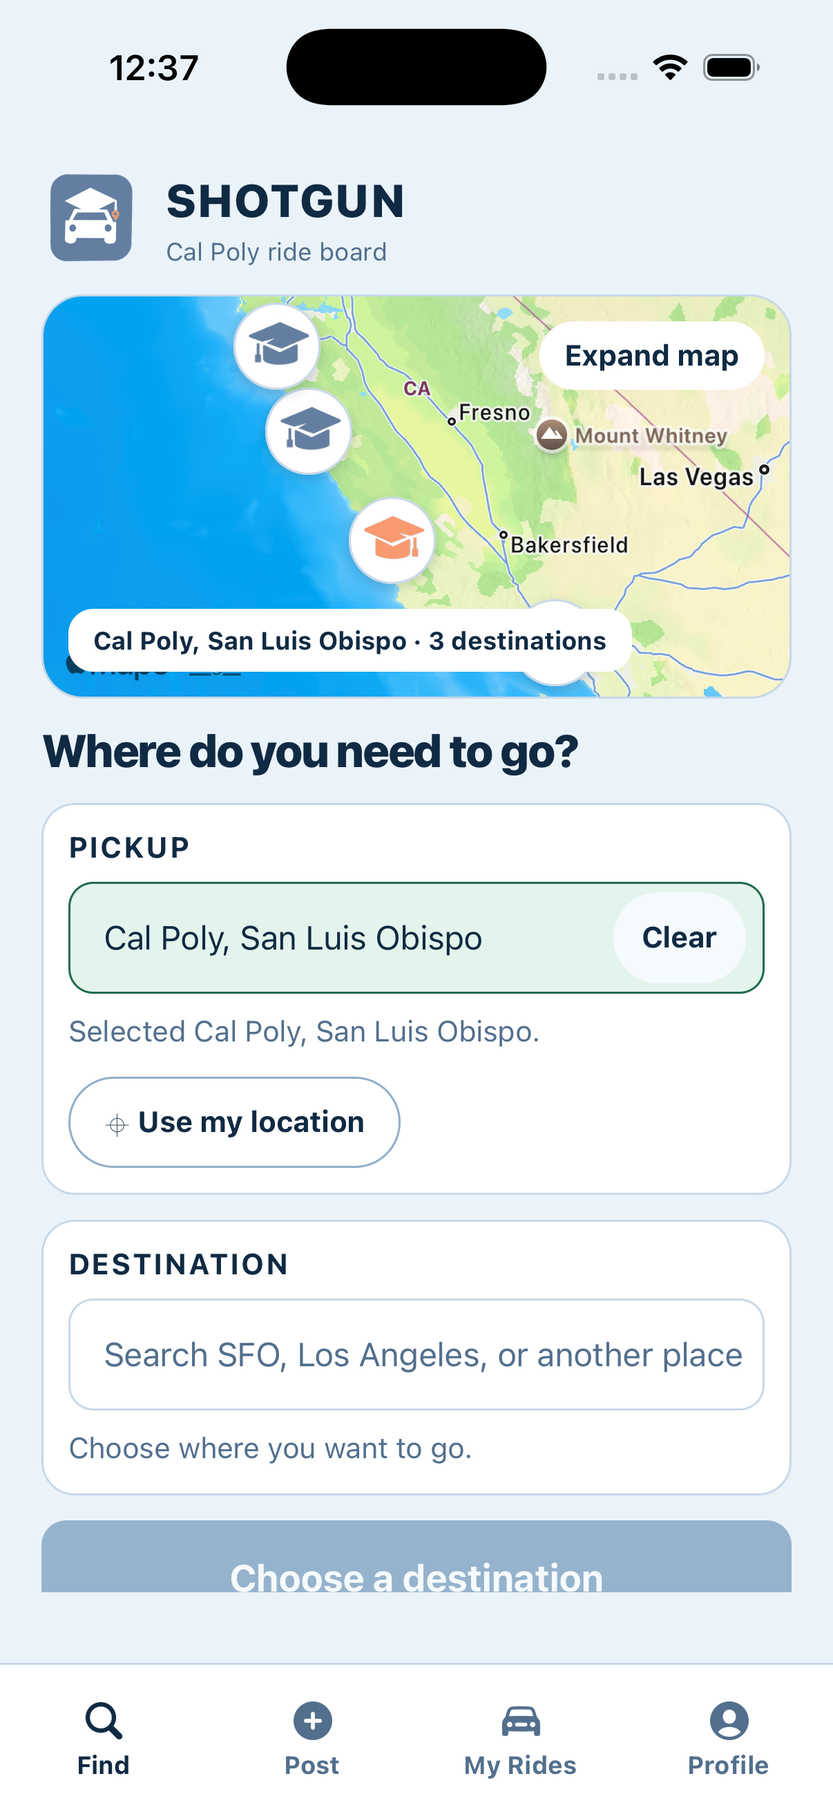
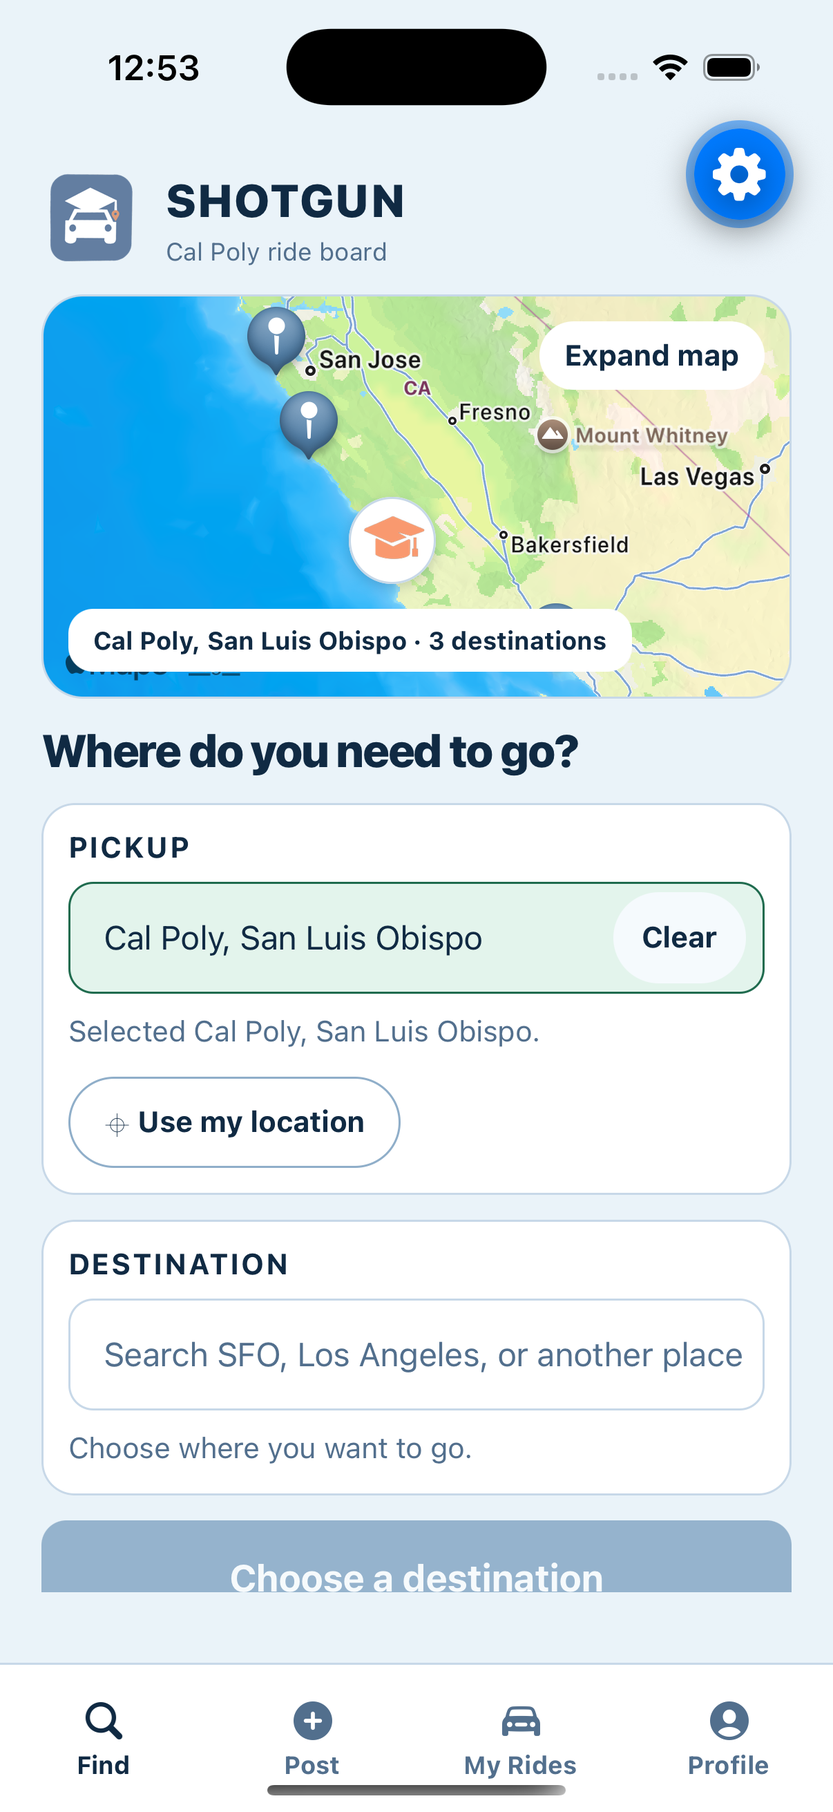
Enable live place search and route previews

diff --git a/src/screens/RideDetailsScreen.tsx b/src/screens/RideDetailsScreen.tsx
@@ -1,11 +1,16 @@
-import { useState } from "react";
+import { useMemo, useState } from "react";
 import { ActivityIndicator, Pressable, ScrollView, StyleSheet, Text, View } from "react-native";
 import { useLocalSearchParams, useRouter } from "expo-router";
 import { SafeAreaView } from "react-native-safe-area-context";
 
 import { BookingStatusPill } from "../components/BookingStatusPill";
 import { currentUser, rides } from "../data/fixtures";
+import { RideRouteMap } from "../features/rides/components/RideRouteMap";
+import { fixtureRideSeeds } from "../features/rides/fixtures";
+import { createMockMapsService } from "../features/rides/mockMapsService";
+import { createSupabaseMapsService } from "../features/rides/supabaseMapsService";
 import { useBookings } from "../hooks/useBookings";
+import { withRouteFallback } from "../lib/maps";
 import { mockBookingService } from "../services/mockBookingService";
 import { colors, componentTokens, radii, semanticColors, spacing, typography } from "../theme/tokens";
 
@@ -18,6 +23,9 @@ export function RideDetailsScreen() {
   const params = useLocalSearchParams<{ rideId?: string | string[] }>();
   const rideId = Array.isArray(params.rideId) ? params.rideId[0] : params.rideId;
   const ride = rides.find((item) => item.id === rideId);
+  const routeRide = fixtureRideSeeds.find((item) => item.id === rideId);
+  const routePlaces = useMemo(() => routeRide ? [routeRide.origin, ...routeRide.stops, routeRide.destination] : [], [routeRide]);
+  const mapsService = useMemo(() => withRouteFallback(createSupabaseMapsService(), createMockMapsService({ delayMs: 120 })), []);
   const { riderBookings } = useBookings();
   const booking = ride ? riderBookings.find((item) => item.rideId === ride.id) : undefined;
   const [saving, setSaving] = useState(false);
@@ -69,16 +77,14 @@ export function RideDetailsScreen() {
           <Text style={styles.time}>{ride.departureTime}</Text>
         </View>
 
+        {routePlaces.length >= 2 ? <RideRouteMap places={routePlaces} service={mapsService} /> : null}
+
         <View style={styles.routeCard}>
-          <View style={styles.routeRail}>
-            <View style={styles.originDot} />
-            <View style={styles.routeLine} />
-            <View style={styles.destinationDot} />
-          </View>
-          <View style={styles.routeLabels}>
-            <Text style={styles.place}>{ride.origin}</Text>
-            <Text style={styles.place}>{ride.destination}</Text>
-          </View>
+          {routePlaces.map((place, index) => {
+            const isOrigin = index === 0;
+            const isDestination = index === routePlaces.length - 1;
+            return <View key={place.id} style={styles.routeRow}><View style={[styles.routeDot, isOrigin && styles.originDot, isDestination && styles.destinationDot]} /><View style={styles.routeCopy}><Text style={styles.routeKind}>{isOrigin ? "ORIGIN" : isDestination ? "DESTINATION" : "SUGGESTED STOP"}</Text><Text style={styles.place}>{place.label}</Text></View></View>;
+          })}
         </View>
 
         <View style={styles.card}>
@@ -146,12 +152,13 @@ const styles = StyleSheet.create({
   kicker: { color: colors.steel, fontSize: typography.fontSize.xs, fontWeight: typography.fontWeight.bold, letterSpacing: typography.letterSpacing.label },
   time: { color: colors.ink, fontSize: typography.fontSize["2xl"], fontWeight: typography.fontWeight.heavy, marginTop: spacing[1] },
   title: { color: colors.ink, fontSize: typography.fontSize["2xl"], fontWeight: typography.fontWeight.heavy },
-  routeCard: { backgroundColor: semanticColors.app.surface, borderColor: colors.border, borderRadius: componentTokens.card.radius, borderWidth: 1, flexDirection: "row", gap: spacing[4], padding: componentTokens.card.padding },
-  routeRail: { alignItems: "center", paddingVertical: spacing[1], width: 14 },
-  originDot: { backgroundColor: colors.steel, borderRadius: radii.pill, height: 12, width: 12 },
-  routeLine: { backgroundColor: colors.borderStrong, flex: 1, minHeight: 40, width: 2 },
-  destinationDot: { backgroundColor: colors.peach, borderRadius: radii.pill, height: 12, width: 12 },
-  routeLabels: { flex: 1, justifyContent: "space-between", minHeight: 72 },
+  routeCard: { backgroundColor: semanticColors.app.surface, borderColor: colors.border, borderRadius: componentTokens.card.radius, borderWidth: 1, gap: spacing[3], padding: componentTokens.card.padding },
+  routeRow: { alignItems: "center", flexDirection: "row", gap: spacing[3] },
+  routeDot: { backgroundColor: colors.steel, borderRadius: radii.pill, height: 8, width: 8 },
+  originDot: { backgroundColor: colors.peach, height: 12, width: 12 },
+  destinationDot: { backgroundColor: colors.navy, height: 12, width: 12 },
+  routeCopy: { flex: 1, gap: spacing[1] },
+  routeKind: { color: colors.textMuted, fontSize: typography.fontSize.xs, fontWeight: typography.fontWeight.bold, letterSpacing: typography.letterSpacing.label },
   place: { color: colors.ink, fontSize: typography.fontSize.lg, fontWeight: typography.fontWeight.bold },
   card: { backgroundColor: semanticColors.app.surface, borderColor: colors.border, borderRadius: componentTokens.card.radius, borderWidth: 1, gap: spacing[3], padding: componentTokens.card.padding },
   section: { color: colors.ink, fontSize: typography.fontSize.lg, fontWeight: typography.fontWeight.heavy },

diff --git a/src/features/rides/components/RideRouteMap.tsx b/src/features/rides/components/RideRouteMap.tsx
@@ -1,0 +1,58 @@
+import { useEffect, useMemo, useState } from "react";
+import { ActivityIndicator, Image, StyleSheet, Text, View } from "react-native";
+import MapView, { Marker, Polyline } from "react-native-maps";
+
+import type { MapsService } from "../../../lib/maps";
+import { colors, radii, semanticColors, spacing, typography } from "../../../theme/tokens";
+import { regionForPlaces } from "../mapPresentation";
+import type { Place } from "../types";
+
+type Props = { places: Place[]; service: MapsService };
+
+export function RideRouteMap({ places, service }: Props) {
+  const [path, setPath] = useState<Array<{ lat: number; lng: number }>>([]);
+  const [status, setStatus] = useState<"loading" | "ready" | "error">("loading");
+  const waypointKey = places.map((place) => place.id).join(":");
+
+  useEffect(() => {
+    let active = true;
+    setStatus("loading");
+    service.getRoute(places).then((route) => {
+      if (!active) return;
+      setPath(route.path?.length ? route.path : places.map(({ lat, lng }) => ({ lat, lng })));
+      setStatus("ready");
+    }).catch(() => {
+      if (!active) return;
+      setPath(places.map(({ lat, lng }) => ({ lat, lng })));
+      setStatus("error");
+    });
+    return () => { active = false; };
+  }, [places, service, waypointKey]);
+
+  const region = useMemo(() => regionForPlaces(places), [places]);
+  const coordinates = path.map(({ lat, lng }) => ({ latitude: lat, longitude: lng }));
+
+  return (
+    <View accessibilityLabel={`Route map from ${places[0].label} to ${places.at(-1)?.label}`} style={styles.container}>
+      <MapView initialRegion={region} pointerEvents="none" style={StyleSheet.absoluteFill}>
+        {coordinates.length > 1 ? <Polyline coordinates={coordinates} strokeColor={colors.steel} strokeWidth={5} /> : null}
+        <Marker coordinate={{ latitude: places[0].lat, longitude: places[0].lng }} title={places[0].label} tracksViewChanges={false}>
+          <View style={styles.originBadge}><Image source={require("../../../../Images/GradCapOrange.png")} style={styles.originImage} /></View>
+        </Marker>
+        {places.slice(1, -1).map((stop) => <Marker key={stop.id} coordinate={{ latitude: stop.lat, longitude: stop.lng }} description="Suggested stop" pinColor={colors.peach} title={stop.label} />)}
+        <Marker coordinate={{ latitude: places.at(-1)!.lat, longitude: places.at(-1)!.lng }} description="Ride destination" pinColor={colors.steel} title={places.at(-1)!.label} />
+      </MapView>
+      {status === "loading" ? <View style={styles.status}><ActivityIndicator color={colors.steel} /><Text style={styles.statusText}>Loading route…</Text></View> : null}
+      {status === "error" ? <Text accessibilityRole="alert" style={styles.fallback}>Approximate route</Text> : null}
+    </View>
+  );
+}
+
+const styles = StyleSheet.create({
+  container: { backgroundColor: colors.ice, borderColor: semanticColors.app.border, borderRadius: radii.lg, borderWidth: 1, height: 190, overflow: "hidden" },
+  originBadge: { alignItems: "center", backgroundColor: colors.white, borderColor: semanticColors.app.border, borderRadius: radii.pill, borderWidth: 1, height: 38, justifyContent: "center", width: 38 },
+  originImage: { height: 32, width: 32 },
+  status: { alignItems: "center", alignSelf: "center", backgroundColor: semanticColors.app.surface, borderRadius: radii.pill, flexDirection: "row", gap: spacing[2], marginTop: spacing[3], paddingHorizontal: spacing[3], paddingVertical: spacing[2] },
+  statusText: { color: semanticColors.text.primary, fontSize: typography.fontSize.xs, fontWeight: typography.fontWeight.bold },
+  fallback: { alignSelf: "flex-end", backgroundColor: semanticColors.app.surface, borderRadius: radii.pill, color: semanticColors.text.muted, fontSize: typography.fontSize.xs, margin: spacing[3], overflow: "hidden", paddingHorizontal: spacing[3], paddingVertical: spacing[2] },
+});

diff --git a/supabase/functions/geoapify-maps/index.ts b/supabase/functions/geoapify-maps/index.ts
@@ -26,12 +26,13 @@ function isPlaceInput(value: unknown): value is PlaceInput {
   return isRecord(value) && isCoordinate(value.lat, -90, 90) && isCoordinate(value.lng, -180, 180);
 }
 
-function isAuthenticated(request: Request) {
+function hasMapsAccess(request: Request) {
   const token = request.headers.get("Authorization")?.replace(/^Bearer\s+/i, "");
   if (!token) return false;
   try {
-    const payload = JSON.parse(atob(token.split(".")[1] ?? "")) as unknown;
-    return isRecord(payload) && payload.role === "authenticated" && typeof payload.sub === "string";
+    const encodedPayload = token.split(".")[1]?.replace(/-/g, "+").replace(/_/g, "/") ?? "";
+    const payload = JSON.parse(atob(encodedPayload)) as unknown;
+    return isRecord(payload) && (payload.role === "anon" || payload.role === "authenticated");
   } catch {
     return false;
   }
@@ -81,21 +82,34 @@ async function getRoute(stops: PlaceInput[], apiKey: string) {
     waypoints: stops.map((stop) => `${stop.lat},${stop.lng}`).join("|"),
     mode: "drive",
     units: "metric",
-    format: "json",
+    format: "geojson",
     apiKey,
   }).toString();
   const payload = await fetchGeoapify(url);
-  const route = isRecord(payload) && Array.isArray(payload.results) ? payload.results[0] : null;
-  if (!isRecord(route) || typeof route.distance !== "number" || typeof route.time !== "number") {
+  const feature = isRecord(payload) && Array.isArray(payload.features) ? payload.features[0] : null;
+  const properties = isRecord(feature) && isRecord(feature.properties) ? feature.properties : null;
+  const geometry = isRecord(feature) && isRecord(feature.geometry) ? feature.geometry : null;
+  const lines = geometry && Array.isArray(geometry.coordinates) ? geometry.coordinates : [];
+  const routeLines = lines.map((line) => {
+    if (!Array.isArray(line)) return [];
+    return line.flatMap((point) => {
+      if (!Array.isArray(point) || !isCoordinate(point[0], -180, 180) || !isCoordinate(point[1], -90, 90)) return [];
+      return [{ lat: point[1], lng: point[0] }];
+    });
+  });
+  const pointCount = routeLines.reduce((total, line) => total + line.length, 0);
+  const stride = Math.max(1, Math.ceil(pointCount / 700));
+  const path = routeLines.flatMap((line) => line.filter((_, index) => index % stride === 0 || index === line.length - 1));
+  if (!properties || typeof properties.distance !== "number" || typeof properties.time !== "number" || path.length < 2) {
     throw new Error("Geoapify returned no route");
   }
-  return json({ route: { distanceMeters: Math.round(route.distance), durationSeconds: Math.round(route.time) } });
+  return json({ route: { distanceMeters: Math.round(properties.distance), durationSeconds: Math.round(properties.time), path } });
 }
 
 Deno.serve(async (request) => {
   if (request.method === "OPTIONS") return new Response("ok", { headers: corsHeaders });
   if (request.method !== "POST") return json({ error: "Method not allowed" }, 405);
-  if (!isAuthenticated(request)) return json({ error: "Authentication required" }, 401);
+  if (!hasMapsAccess(request)) return json({ error: "Valid Supabase client token required" }, 401);
 
   const apiKey = Deno.env.get("GEOAPIFY_API_KEY");
   if (!apiKey) return json({ error: "Maps service is not configured" }, 503);

diff --git a/src/features/rides/__tests__/maps.test.ts b/src/features/rides/__tests__/maps.test.ts
@@ -1,7 +1,7 @@
 import { createMockMapsService } from "../mockMapsService";
 import { createSupabaseMapsService } from "../supabaseMapsService";
 import { calPoly, downtownSlo, sfo } from "../fixtures";
-import { withMapsFallback } from "../../../lib/maps";
+import { withMapsFallback, withRouteFallback } from "../../../lib/maps";
 import { regionForPlaces, uniqueRideDestinations } from "../mapPresentation";
 import type { Ride } from "../types";
 
@@ -67,6 +67,7 @@ async function run() {
   const fallbackRoute = await service.getRoute([calPoly, sfo]);
   assertOk(fallbackRoute.distanceMeters > 0);
   assertOk(fallbackRoute.durationSeconds > 0);
+  assertDeepEqual(fallbackRoute.path, [{ lat: calPoly.lat, lng: calPoly.lng }, { lat: sfo.lat, lng: sfo.lng }]);
 
   const searchFailure = createMockMapsService({ delayMs: 0, failureMode: "search" });
   await assertRejects(() => searchFailure.searchPlaces("cal poly"));
@@ -82,12 +83,16 @@ async function run() {
   assertDeepEqual((await resilient.searchPlaces("sfo")).map((place) => place.id), ["place-sfo"]);
   assertEqual((await resilient.getRoute([calPoly, sfo])).distanceMeters, 368000);
 
+  const routeResilient = withRouteFallback(allFailure, service);
+  await assertRejects(() => routeResilient.searchPlaces("sfo"));
+  assertEqual((await routeResilient.getRoute([calPoly, sfo])).distanceMeters, 368000);
+
   const calls: unknown[] = [];
   const live = createSupabaseMapsService(async (name, options) => {
     calls.push({ name, ...options });
     return options.body.operation === "search"
       ? { data: { places: [sfo] }, error: null }
-      : { data: { route: { distanceMeters: 368123, durationSeconds: 13845 } }, error: null };
+      : { data: { route: { distanceMeters: 368123, durationSeconds: 13845, path: [{ lat: calPoly.lat, lng: calPoly.lng }, { lat: sfo.lat, lng: sfo.lng }] } }, error: null };
   });
   assertDeepEqual(await live.searchPlaces("SFO"), [sfo]);
   assertEqual((await live.getRoute([calPoly, sfo])).distanceMeters, 368123);

diff --git a/src/features/rides/components/PlacePicker.tsx b/src/features/rides/components/PlacePicker.tsx
@@ -48,7 +48,9 @@ export function PlacePicker({
   const query = draftQuery?.valueId === valueId ? draftQuery.text : value?.label ?? "";
   const selectedLabel = normalizeMapsQuery(value?.label ?? "");
   const normalizedQuery = normalizeMapsQuery(query);
-  const shouldSearch = Boolean(normalizedQuery && (!value || normalizedQuery !== selectedLabel));
+  const isEditing = Boolean(normalizedQuery && (!value || normalizedQuery !== selectedLabel));
+  const queryTooShort = isEditing && normalizedQuery.length < 2;
+  const shouldSearch = isEditing && !queryTooShort;
   const currentResult = shouldSearch && searchResult?.query === normalizedQuery ? searchResult : null;
   const state: SearchState = shouldSearch ? currentResult?.state ?? "searching" : "idle";
   const results = currentResult?.results ?? [];
@@ -119,8 +121,12 @@ export function PlacePicker({
   }
 
   const statusMessage =
-    state === "searching"
+    queryTooShort
+      ? "Enter at least 2 characters to search."
+      : state === "searching"
       ? "Searching places..."
+      : state === "results"
+        ? `${results.length} location${results.length === 1 ? "" : "s"} found.`
       : state === "no-results"
         ? "No matching places found."
         : state === "error"
@@ -128,9 +134,9 @@ export function PlacePicker({
           : value
             ? `Selected ${value.label}.`
             : helperText ?? "Search for a place to continue.";
-  const visibleResults = state === "error" || state === "no-results" ? fallbackPlaces : results;
+  const visibleResults = state === "error" ? fallbackPlaces : results;
   const resultHeader =
-    state === "error" ? "Demo locations" : state === "results" ? "Matches" : state === "no-results" ? "Try a demo location" : "";
+    state === "error" ? "Demo locations" : state === "results" ? "Matches" : "";
 
   return (
     <View style={styles.container}>

diff --git a/src/screens/CreateRideScreen.tsx b/src/screens/CreateRideScreen.tsx
@@ -11,10 +11,12 @@ import { SafeAreaView } from "react-native-safe-area-context";
 
 import { RideForm } from "../features/rides/components/RideForm";
 import { createMockMapsService } from "../features/rides/mockMapsService";
+import { createSupabaseMapsService } from "../features/rides/supabaseMapsService";
 import { fixtureRidesService } from "../features/rides/service";
 import { DriverSummary, Ride, VehicleSummary } from "../features/rides/types";
 import { fixtureNowIso, mayaDriver } from "../features/rides/fixtures";
 import { colors, componentTokens, radii, semanticColors, spacing, typography } from "../theme/tokens";
+import { withRouteFallback } from "../lib/maps";
 
 type CreateRideScreenProps = {
   onCancel?: () => void;
@@ -192,7 +194,10 @@ function PublishedConfirmation({ ride, onCreateAnother, onCancel }: { ride: Ride
 }
 
 export function CreateRideScreen({ onCancel, onCreateAnother, onPublished }: CreateRideScreenProps) {
-  const mapsService = useMemo(() => createMockMapsService({ delayMs: 120 }), []);
+  const mapsService = useMemo(
+    () => withRouteFallback(createSupabaseMapsService(), createMockMapsService({ delayMs: 120 })),
+    [],
+  );
   const [dependencyAttempt, setDependencyAttempt] = useState(0);
   const [dependency, setDependency] = useState<DependencyState>({ status: "loading" });
   const [publishedRide, setPublishedRide] = useState<Ride | null>(null);

diff --git a/src/screens/DiscoveryScreen.tsx b/src/screens/DiscoveryScreen.tsx
@@ -16,7 +16,7 @@ import { calPoly, fixtureNowIso, sfo } from "../features/rides/fixtures";
 import { createMockMapsService } from "../features/rides/mockMapsService";
 import { createSupabaseMapsService } from "../features/rides/supabaseMapsService";
 import { fixtureRidesService } from "../features/rides/service";
-import { MapsService, withMapsFallback } from "../lib/maps";
+import { MapsService, withRouteFallback } from "../lib/maps";
 import { expoLocationService, LocationService } from "../lib/location";
 import { Place, Ride, RideFilters as RideFilterQuery, RidesService } from "../features/rides/types";
 import { currentUser } from "../data/fixtures";
@@ -46,8 +46,7 @@ export function DiscoveryScreen({ ridesService = fixtureRidesService, mapsServic
   const router = useRouter();
   const mapsService = useMemo(() => {
     if (mapsServiceProp) return mapsServiceProp;
-    const fallback = createMockMapsService({ delayMs: 120 });
-    return withMapsFallback(createSupabaseMapsService(), fallback);
+    return withRouteFallback(createSupabaseMapsService(), createMockMapsService({ delayMs: 120 }));
   }, [mapsServiceProp]);
   const [draft, setDraft] = useState<DiscoveryFilterValues>({ ...emptyDiscoveryFilters });
   const [applied, setApplied] = useState<DiscoveryFilterValues>({ ...emptyDiscoveryFilters });

diff --git a/src/features/rides/supabaseMapsService.ts b/src/features/rides/supabaseMapsService.ts
@@ -15,6 +15,12 @@ function isPlace(value: unknown): value is Place {
   return typeof place.id === "string" && typeof place.label === "string" && isFiniteNumber(place.lat) && isFiniteNumber(place.lng);
 }
 
+function isRoutePoint(value: unknown): value is { lat: number; lng: number } {
+  if (!value || typeof value !== "object") return false;
+  const point = value as { lat?: unknown; lng?: unknown };
+  return isFiniteNumber(point.lat) && isFiniteNumber(point.lng);
+}
+
 function mapsError(error: unknown) {
   if (error && typeof error === "object" && "message" in error && typeof error.message === "string") return new Error(error.message);
   return new Error("Live maps are temporarily unavailable.");
@@ -41,6 +47,7 @@ export function createSupabaseMapsService(
       if (error) throw mapsError(error);
       const route = (data as Partial<RouteResponse> | null)?.route;
       if (!route || !isFiniteNumber(route.distanceMeters) || !isFiniteNumber(route.durationSeconds)) throw mapsError(null);
+      if (route.path != null && (!Array.isArray(route.path) || !route.path.every(isRoutePoint))) throw mapsError(null);
       return route;
     },
   };

diff --git a/src/features/rides/components/RideRouteMap.web.tsx b/src/features/rides/components/RideRouteMap.web.tsx
@@ -1,0 +1,15 @@
+import { StyleSheet, Text, View } from "react-native";
+
+import type { MapsService } from "../../../lib/maps";
+import { colors, radii, semanticColors, spacing, typography } from "../../../theme/tokens";
+import type { Place } from "../types";
+
+export function RideRouteMap({ places }: { places: Place[]; service: MapsService }) {
+  return <View accessibilityRole="image" accessibilityLabel={`Route map from ${places[0].label} to ${places.at(-1)?.label}`} style={styles.container}><Text style={styles.kicker}>ROUTE PREVIEW</Text><Text style={styles.route}>{places.map((place) => place.label).join(" → ")}</Text></View>;
+}
+
+const styles = StyleSheet.create({
+  container: { backgroundColor: colors.ice, borderColor: semanticColors.app.border, borderRadius: radii.lg, borderWidth: 1, gap: spacing[2], minHeight: 150, padding: spacing[4] },
+  kicker: { color: colors.steel, fontSize: typography.fontSize.xs, fontWeight: typography.fontWeight.bold },
+  route: { color: semanticColors.text.primary, fontSize: typography.fontSize.md, fontWeight: typography.fontWeight.bold, lineHeight: 24 },
+});

diff --git a/src/features/rides/components/RideDestinationsMap.tsx b/src/features/rides/components/RideDestinationsMap.tsx
@@ -40,11 +40,14 @@ export function RideDestinationsMap({ origin, rides }: Props) {
           </Marker>
         ) : null}
         {destinations.map((place) => (
-          <Marker key={place.id} coordinate={{ latitude: place.lat, longitude: place.lng }} description="Available ride destination" title={place.label} tracksViewChanges={false}>
-            <View style={styles.markerBadge}>
-              <Image accessibilityLabel={`Available rides to ${place.label}`} source={require("../../../../Images/GradCapBlue.png")} style={styles.markerImage} />
-            </View>
-          </Marker>
+          <Marker
+            key={place.id}
+            accessibilityLabel={`Available rides to ${place.label}`}
+            coordinate={{ latitude: place.lat, longitude: place.lng }}
+            description="Available ride destination"
+            pinColor={colors.steel}
+            title={place.label}
+          />
         ))}
       </MapView>
     );

diff --git a/src/lib/maps.ts b/src/lib/maps.ts
@@ -24,6 +24,19 @@ export function withMapsFallback(primary: MapsService, fallback: MapsService): M
   };
 }
 
+export function withRouteFallback(primary: MapsService, fallback: MapsService): MapsService {
+  return {
+    searchPlaces: (query) => primary.searchPlaces(query),
+    async getRoute(stops) {
+      try {
+        return await primary.getRoute(stops);
+      } catch {
+        return fallback.getRoute(stops);
+      }
+    },
+  };
+}
+
 export type MockMapsFailureMode = "search" | "route" | "all";
 
 export interface MockMapsServiceOptions {
@@ -46,5 +59,5 @@ export function clonePlace(place: Place): Place {
 }
 
 export function cloneRouteSummary(routeSummary: RouteSummary): RouteSummary {
-  return { ...routeSummary };
+  return { ...routeSummary, path: routeSummary.path?.map((point) => ({ ...point })) };
 }

diff --git a/src/features/rides/mockMapsService.ts b/src/features/rides/mockMapsService.ts
@@ -132,7 +132,8 @@ export function createMockMapsService(options: MockMapsServiceOptions = {}): Map
       }
 
       const exactRoute = demoRoutes.get(createRouteKey(stops));
-      return exactRoute ? cloneRouteSummary(exactRoute) : estimateRoute(stops);
+      const summary = exactRoute ? cloneRouteSummary(exactRoute) : estimateRoute(stops);
+      return { ...summary, path: stops.map(({ lat, lng }) => ({ lat, lng })) };
     },
   };
 }
